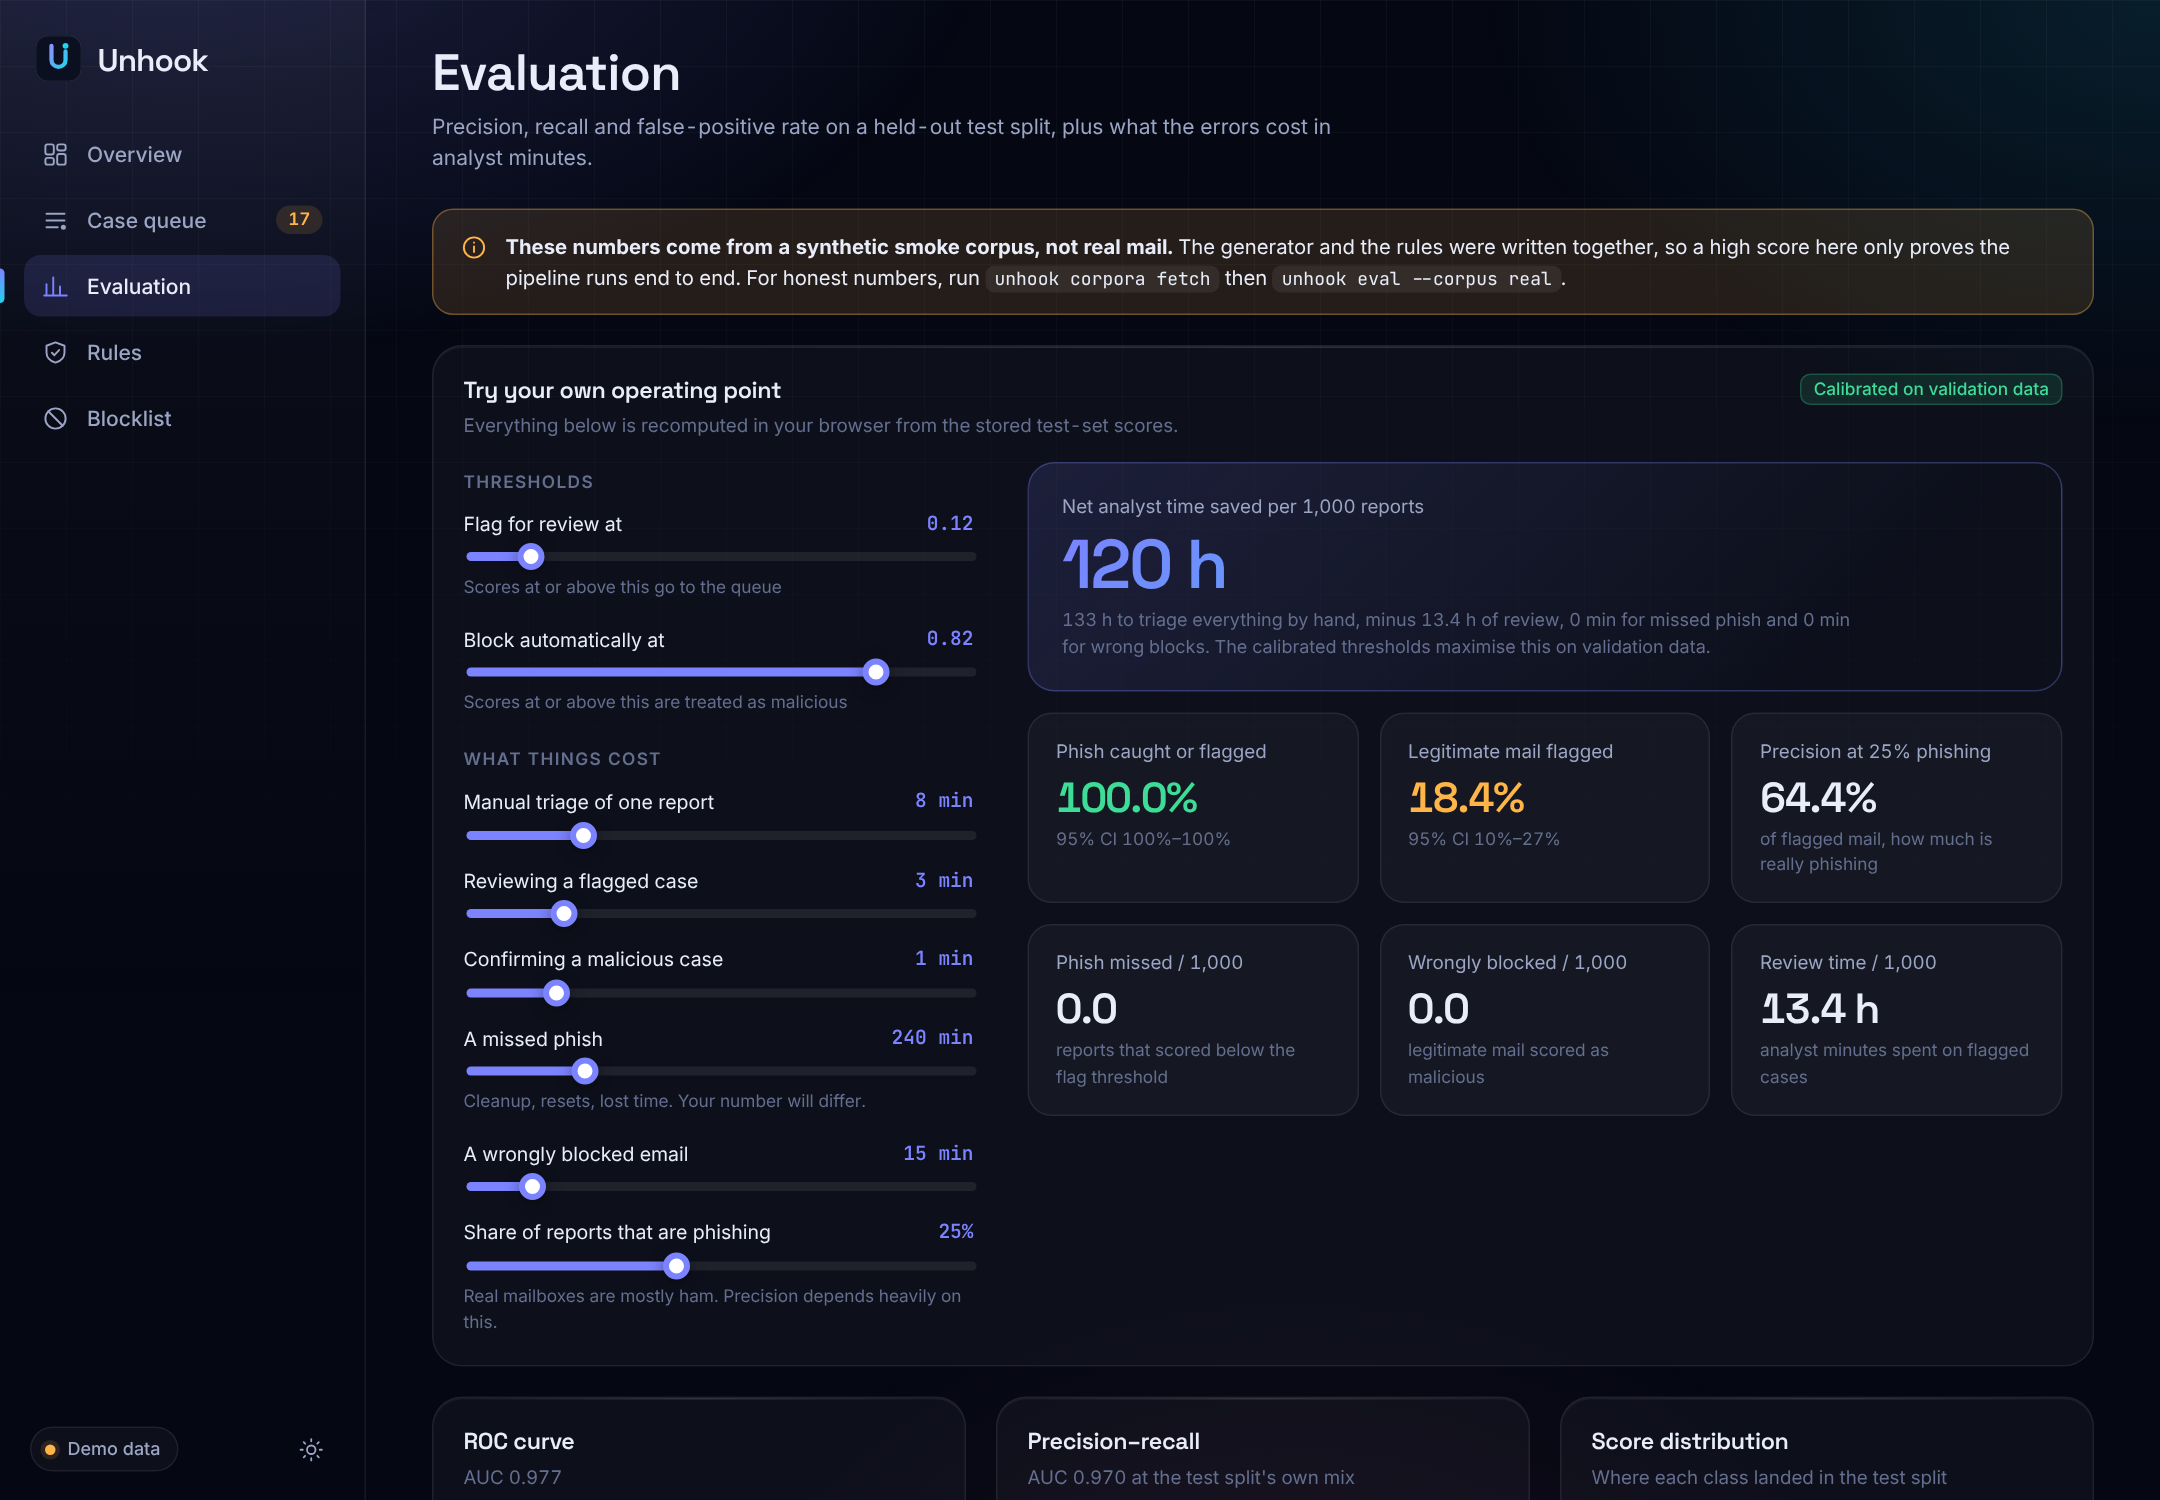
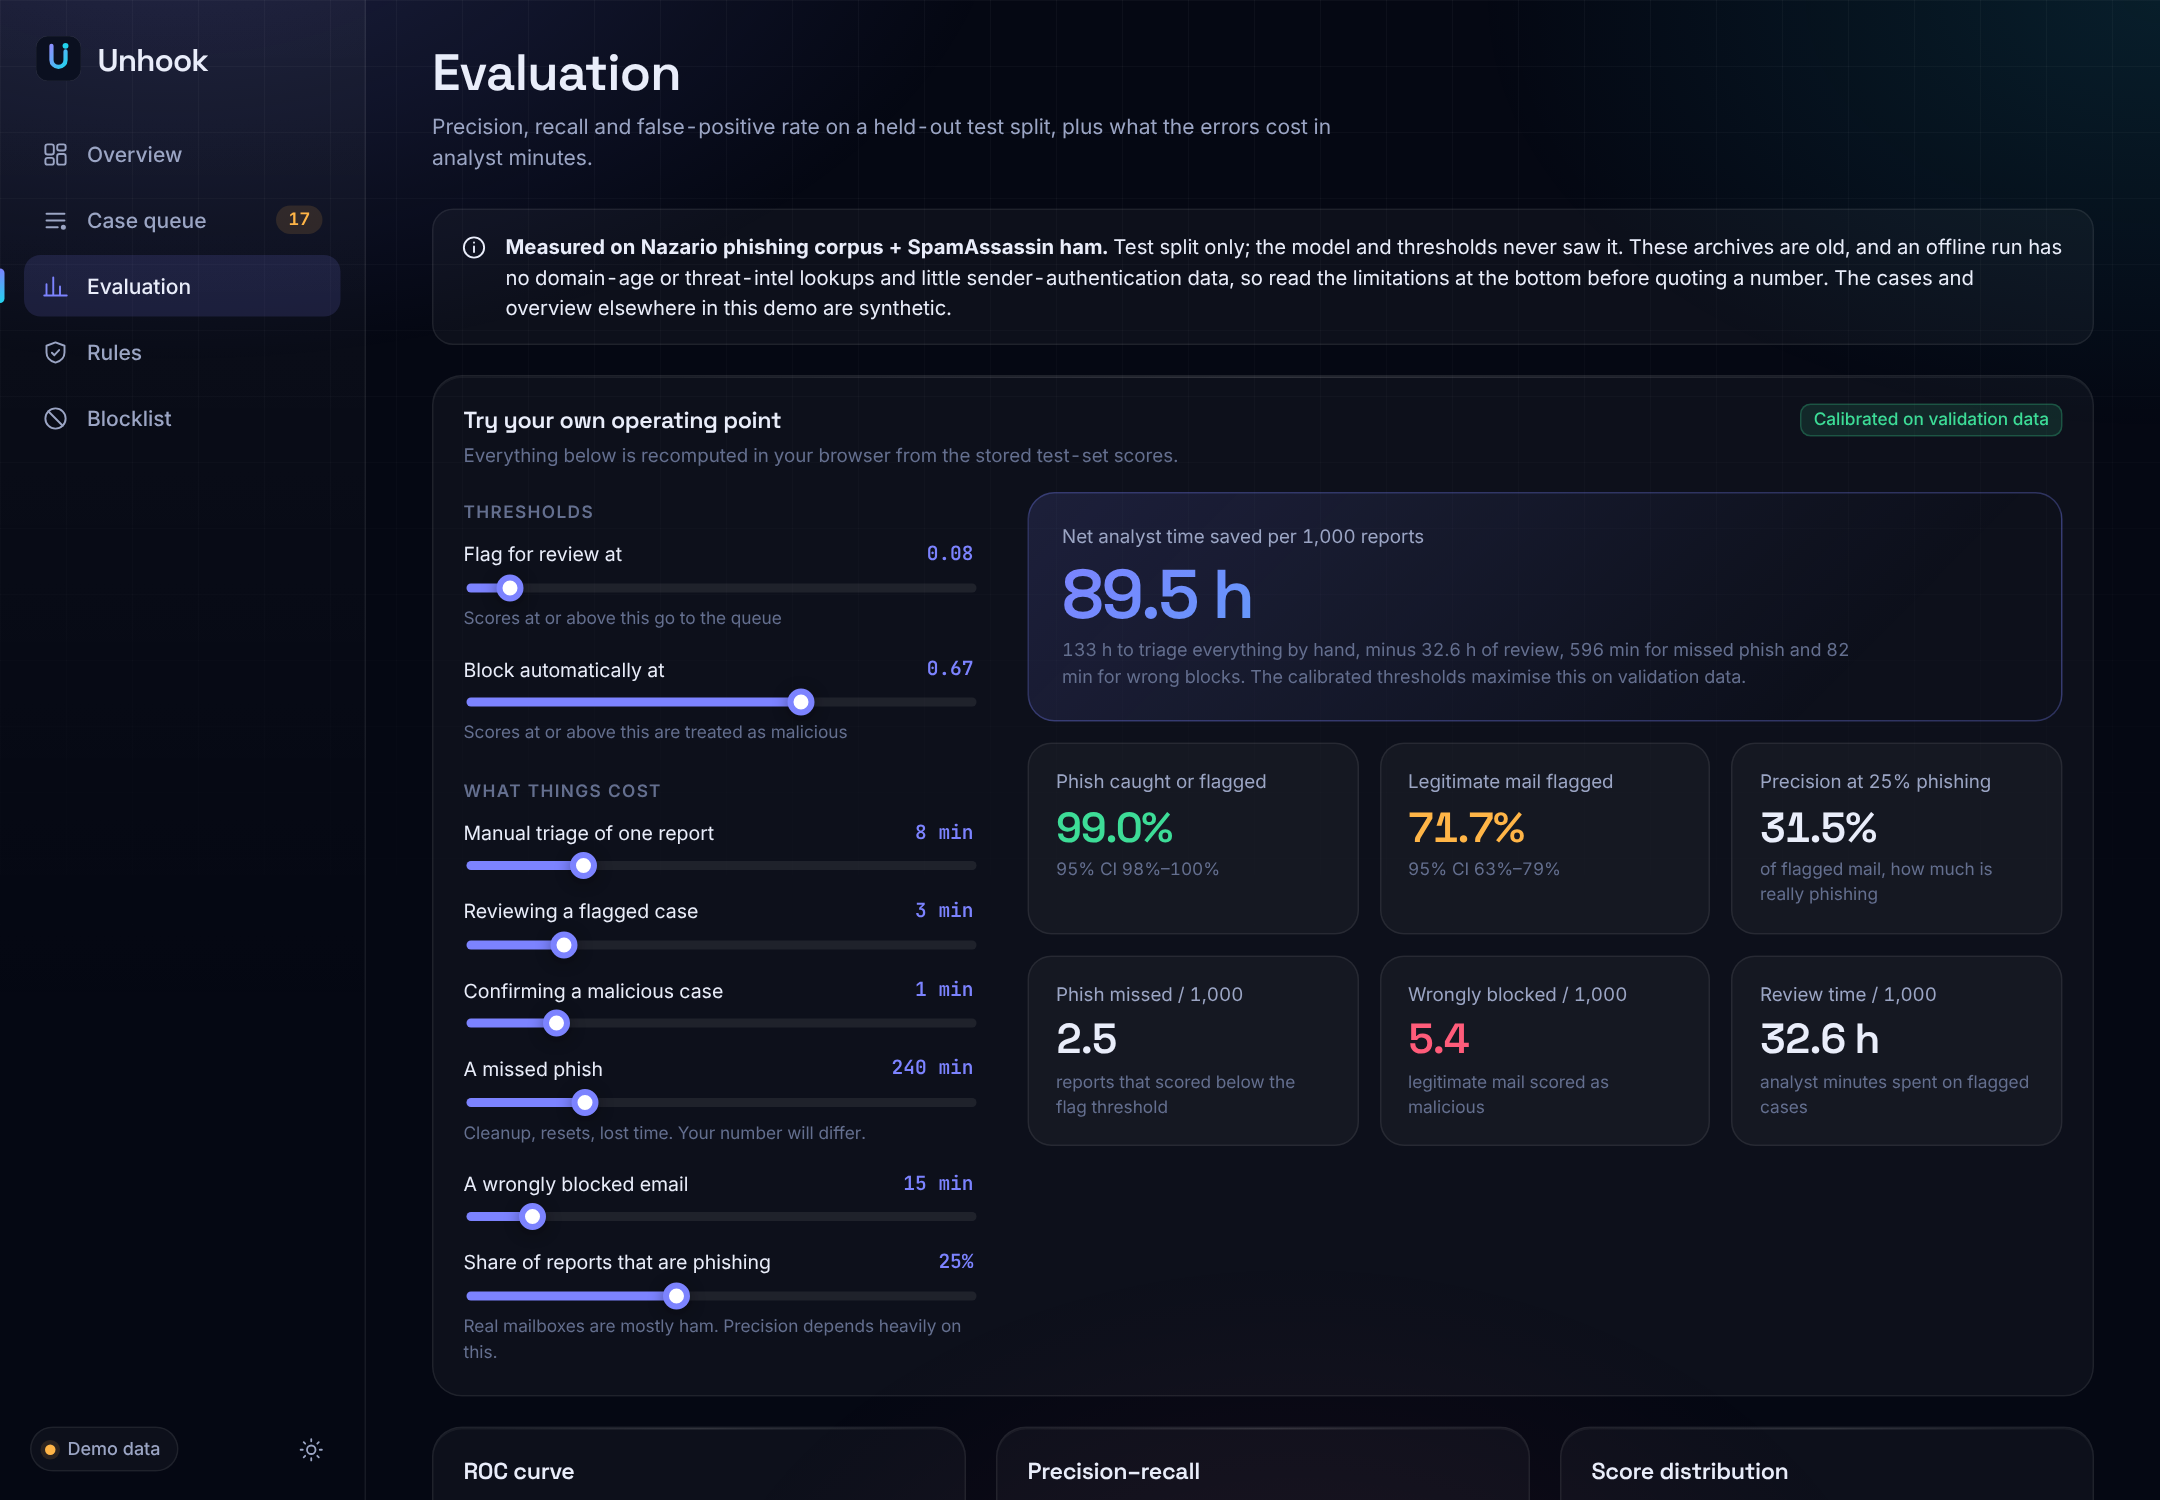
Write up what the real run shows, including the unflattering parts
Auto-block is precise (99.5%, 4 wrongful blocks in 551) but the cost-optimal queue threshold flags most legitimate mail, the rules alone are net negative on this corpus, two rules are noisy, and the model's AUC probably reflects the era gap between the two corpora. The README says why no trained model ships and recommends UNHOOK_AUTO_CLOSE_SAFE=false until a team has evaluated on its own mail.

Claude-Session: https://claude.ai/code/session_015yxDHjAW2w1Z3JPgKoSbKY

diff --git a/README.md b/README.md
@@ -15,7 +15,7 @@ Unhook is a phishing triage pipeline for organisations that get suspicious email
 
 It's built for the school district, clinic or small nonprofit where "the SOC" is one person who also fixes printers.
 
-**Live demo:** [twisha32.github.io/unhook](https://twisha32.github.io/unhook/) runs the real dashboard on synthetic data, so you can click through cases and move the cost sliders without installing anything.
+**Live demo:** [twisha32.github.io/unhook](https://twisha32.github.io/unhook/) runs the real dashboard on synthetic data, so you can click through cases and move the cost sliders without installing anything. The cases are synthetic; the Evaluation page shows the real run.
 
 <p align="center">
   <img src="docs/assets/screenshots/overview.png" alt="Overview dashboard" width="100%">
@@ -31,7 +31,7 @@ It's built for the school district, clinic or small nonprofit where "the SOC" is
    - Attachments: sniffed file type vs. the name it wears (`Invoice.pdf.exe`), Office macros via `oletools`, active PDFs, HTML smuggling, encrypted archives.
 3. **Checks the outside world passively.** Domain age over RDAP, URLhaus and MalwareBazaar lookups, and local feed files. None of these touch the suspicious link.
 4. **Scores it transparently.** 41 rules, each with a confidence, a plain-language lesson and a MITRE ATT&CK technique (T1566 and friends). A logistic-regression model adds a second opinion and explains exactly which features moved its score. Both are shown side by side so nobody has to take the number on faith.
-5. **Responds.** The reporter gets a verdict and a micro-lesson. Clearly malicious mail goes straight to the blocklist. Suspicious mail waits for an analyst. Clearly fine mail closes itself. Marking a case as a false positive takes its indicators off the blocklist again.
+5. **Responds.** The reporter gets a verdict and a micro-lesson. Clearly malicious mail goes straight to the blocklist. Suspicious mail waits for an analyst. Clearly fine mail closes itself, unless you switch that off. Marking a case as a false positive takes its indicators off the blocklist again.
 6. **Writes the case note.** Either a deterministic template or, optionally, an LLM. The LLM only sees numbered evidence extracted by the parser, and every claim it makes is checked against that evidence before anyone reads it. A draft that invents a domain, a number or an attack technique is thrown away and replaced by the template.
 
 <p align="center">
@@ -96,7 +96,7 @@ Add `--profile ingest` to poll a reporting mailbox, and `--profile sandbox` for 
 
 ## The numbers, and what they do and don't mean
 
-The evaluation harness is the part of this project I'd most like you to poke at.
+The evaluation harness is the part of this project most worth poking at.
 
 - **Held-out public data.** The real run trains and tests on the [Nazario phishing corpus](https://monkey.org/~jose/phishing/) (CC BY 4.0) against the [SpamAssassin](https://spamassassin.apache.org/old/publiccorpus/) ham sets. Both are downloaded at run time and never committed.
 - **No memorising a campaign.** Messages from the same sender domain always land in the same split, near-duplicates are collapsed, and a text filed as both phishing and legitimate is dropped as label noise. The model is fit on train, the blend and thresholds are chosen on validation, and every reported number comes from the test split.
@@ -104,16 +104,31 @@ The evaluation harness is the part of this project I'd most like you to poke at.
 - **Ablation and per-rule precision.** Rules only, model only, and the blend are reported separately, along with each rule's precision on the test data.
 - **A business model, not just a confusion matrix.** Errors are priced in analyst-minutes: a missed phish costs far more than a false alarm. The headline is `net minutes saved per 1,000 reports`, which subtracts the cost of mistakes. The "gross" figure (review time saved) is shown too, but it's the flattering one and it can make a tool that misses most phish look good. Every assumption is a slider in the dashboard, and the cost defaults are placeholders for a small organisation, not measurements.
 
-**Status of the numbers.** This repository ships no accuracy claim until the real corpora have been run. The demo dashboard is driven by a synthetic corpus the same author wrote the rules against, and says so in a banner on every evaluation screen. It proves the plumbing works, and tells you nothing about how Unhook does on real mail. To get real numbers:
+**What the first real run says.** The 17 October 2026 run read 15,427 messages and removed 4,779 near-duplicates. The test split is 1,107 phishing and 551 legitimate messages from senders the model never saw. The default cost assumptions apply, and the full report is in [`eval/results`](eval/results/nazario-spamassassin.json).
+
+| | Result |
+|---|---|
+| Auto-block threshold | 99.5% precision, 78% recall, 4 wrongful blocks among 551 legitimate messages |
+| Review-queue threshold | Catches 99.0% of phishing (95% CI 98.3 to 99.6%), but also flags 71% of legitimate mail (CI 63 to 79%). At 25% prevalence, about 32% of flagged mail is really phishing. |
+| Net analyst time | 5,377 minutes saved per 1,000 reports (6,055 gross), with 2.5 missed phish and 5.4 wrongful blocks per 1,000 |
+| Rules alone | AUC 0.76, 67% recall, 28% of legitimate mail flagged. Net **-13,007** minutes per 1,000, which under these costs is worse than triaging by hand. |
+| Model alone | AUC 0.97 |
+
+Read that with some suspicion, in both directions:
+
+- **The queue is noisy by design.** The cost model prices a missed phish at 240 minutes and a review at 3, so the optimiser flags almost everything. That's cheap in minutes and irritating for a person. Raise the threshold in the dashboard and watch recall fall.
+- **The rules are weak on this data.** They were written for modern lures, and an offline run on these archives has no domain-age or threat-intel lookups and little sender-authentication data, which many rules lean on. Two rules are plainly noisy on it: Reply-To mismatch (33% precision, because mailing lists set Reply-To on purpose) and fake reply threads (46%). They haven't been tuned against this test split, because that would spoil the split.
+- **The model's 0.97 probably flatters it.** The legitimate mail is from 2002 to 2005 and much of the phishing is newer, so a model can learn the era (formatting, HTML, link counts) instead of learning phishing. It hasn't been tested on current legitimate mail.
+- **So no trained model ships.** Out of the box Unhook runs on the rules alone, which is the weaker configuration above. Until you've evaluated it on your own labelled reports, consider `UNHOOK_AUTO_CLOSE_SAFE=false` so an analyst still sees everything the rules call safe.
+
+To reproduce or rerun:
 
 ```bash
 unhook corpora fetch --dest data/corpora
 unhook eval --corpus real --data data/corpora --out eval/reports/latest.json --write-model model/model.json
 ```
 
-or run **Evaluate on public corpora** from the Actions tab, which does the same on a GitHub runner and publishes the report and trained model to an `eval-results` branch. Details, including known weaknesses of those corpora, are in [docs/evaluation.md](docs/evaluation.md).
-
-No trained model is bundled. Until you train one, Unhook runs on the rules alone, and says so.
+or run **Evaluate on public corpora** from the Actions tab, which does the same on a GitHub runner and publishes the report and trained model to an `eval-results` branch. Method and corpus caveats are in [docs/evaluation.md](docs/evaluation.md).
 
 ## Safety
 
@@ -143,6 +158,7 @@ Everything is optional and set through environment variables (or `.env`). The fu
 | `UNHOOK_SMTP_*` | Where replies to reporters are sent from. Without it they're logged. |
 | `UNHOOK_IMAP_*` | The reporting mailbox for `--profile ingest`. |
 | `UNHOOK_CASE_NOTE_PROVIDER` | `template` (default, offline) or `anthropic`. Needs `UNHOOK_BUILD_EXTRAS=llm` and `ANTHROPIC_API_KEY`. |
+| `UNHOOK_AUTO_CLOSE_SAFE` | `true` (default) closes "likely safe" cases without an analyst. `false` keeps every report in the queue. |
 | `UNHOOK_MANUAL_REVIEW_MINUTES` | What reading one report by hand costs, for the time-saved figure. |
 
 ## API
@@ -187,7 +203,7 @@ Every rule has one message that must trigger it and one that must not, and a met
 ## Known limits
 
 - The IMAP poller is covered by a stubbed-connection test, not against a real mail server.
-- The Docker images and compose stack weren't run on the machine this was written on. CI builds them on every push, reports a sample through the running stack, and checks that the egress proxy refuses the cloud metadata address, so a green CI run is the evidence. The tracer, proxy and Chromium mode are also tested locally against local servers, never against live sites.
+- CI starts the full compose stack on every push, reports a sample through it, and checks that the egress proxy refuses the cloud metadata address. What hasn't been observed is the sandbox tracing real phishing sites, and the Chromium mode is only tested against local servers.
 - There's no database migration tooling yet. The schema is created on start-up, which is fine for a first deployment and not for upgrading one.
 - A rules engine written by the people reading the corpus will always flatter itself. Treat the first real numbers as an upper bound.
 - Email only. No SMS, no chat-app reports.

diff --git a/docs/evaluation.md b/docs/evaluation.md
@@ -55,13 +55,39 @@ The report gives two time figures, and they mean different things:
 
 Because corpus prevalence isn't your prevalence, precision is recomputed at the assumed prevalence rather than read off the corpus.
 
+## The first real run
+
+Run 39086357674 on 17 October 2026, seed 7, default costs. 15,427 messages were read and 4,779 near-duplicates removed. The split was 6,699 train, 2,290 validation and 1,658 test (1,107 phishing and 551 legitimate). The blend weight chosen on validation was 0.75 model, with the queue threshold at 0.08 and the auto-block threshold at 0.67. The report is committed as [`eval/results/nazario-spamassassin.json`](../eval/results/nazario-spamassassin.json).
+
+| | Precision | Recall | False-positive rate |
+|---|---|---|---|
+| Review queue (score of 0.08 or more) | 73.6% on the test mix, 31.6% at 25% prevalence | 99.0% (95% CI 98.3 to 99.6) | 71.3% (CI 63.5 to 79.2) |
+| Auto-block (score of 0.67 or more) | 99.5% | 78.3% | 0.7% (4 of 551) |
+
+| Variant | AUC | Recall | False-positive rate | Missed per 1,000 | Net minutes saved per 1,000 |
+|---|---|---|---|---|---|
+| Rules only | 0.758 | 66.6% | 28.3% | 83.6 | -13,007 |
+| Model only | 0.972 | 99.1% | 73.9% | 2.3 | 5,342 |
+| Rules + model (shipped) | 0.973 | 99.0% | 71.3% | 2.5 | 5,377 |
+
+Where the flags landed: 99% of the Nazario phishing, 72% of the easy ham (528 messages) and 48% of the hard ham (only 23 messages survived de-duplication, so that figure is loose).
+
+What to take from it:
+
+- **The queue threshold is a cost decision.** With a miss priced at 240 minutes and a review at 3, the optimiser would rather flag nearly everything than miss one. That's the right answer to the question the cost model asks, and a poor experience for the person working the queue. The dashboard sliders show how quickly recall drops as the threshold rises. Choose a threshold from your own costs.
+- **The auto-block line is the strong result.** At 0.67, four of 551 legitimate messages would have been blocked, and nearly four in five phishing messages were caught without a human.
+- **The rules alone don't carry their weight here.** They miss a third of the phishing and flag more than a quarter of the legitimate mail, which under these costs is worse than not having them. Two rules drag: Reply-To mismatch (58 phishing hits against 117 legitimate, 33% precision, because mailing lists set Reply-To deliberately) and fake reply threads (33 against 39, 46%). The strongest rules were very precise: link text that disagrees with its destination (278 against 2), credential wording under pressure (185 against 1), display-name brand claims (110 against 0), failed SPF or DKIM (87 against 0) and raw-IP links (79 against 0).
+- **Some of that precision is the corpus.** Failed SPF or DKIM never fires on the legitimate mail because 2000s mailing-list archives mostly lack those headers, while the newer phishing carries them. A rule can look perfect for reasons that have nothing to do with phishing.
+- **Don't trust the model's 0.97 yet.** Era is the obvious shortcut for it to learn, and its largest weights include message length, URL length and the number of distinct link domains. Only mail from your own organisation can settle that.
+- **None of these rules were tuned on this split.** If you change a rule because of what it did here, rerun with a different `--seed` or a fresh sample, or the numbers stop being held out.
+
 ## Known weaknesses of these corpora
 
 The report prints these in its `limitations` list, and the dashboard shows them under the results.
 
 - The rules were written by people who have read these corpora, so rule recall on them is optimistic. Treat the first real numbers as an upper bound.
 - The public ham is old mailing-list traffic and the phishing is mostly bank and webmail lures. A model can learn that difference (HTML, link count, formatting) instead of learning "phishing". Be suspicious of strong model-only numbers.
-- Historical mail has no usable sender-authentication results, domain-age lookups, threat-intel hits or sandbox traces, so those signals aren't exercised here. They're a large part of what makes the live system better than the offline score suggests, and none of that is measured.
+- Historical mail has little usable sender-authentication data and no domain-age lookups, threat-intel hits or sandbox traces, so those signals are barely exercised here. They're a large part of what makes the live system better than the offline score suggests, and none of that is measured.
 - Public corpora age. Phishing in 2026 looks different from phishing in 2005.
 
 The most useful number you'll ever get comes from your own mail: run `unhook eval` with your own labelled reports once you have a few hundred.
